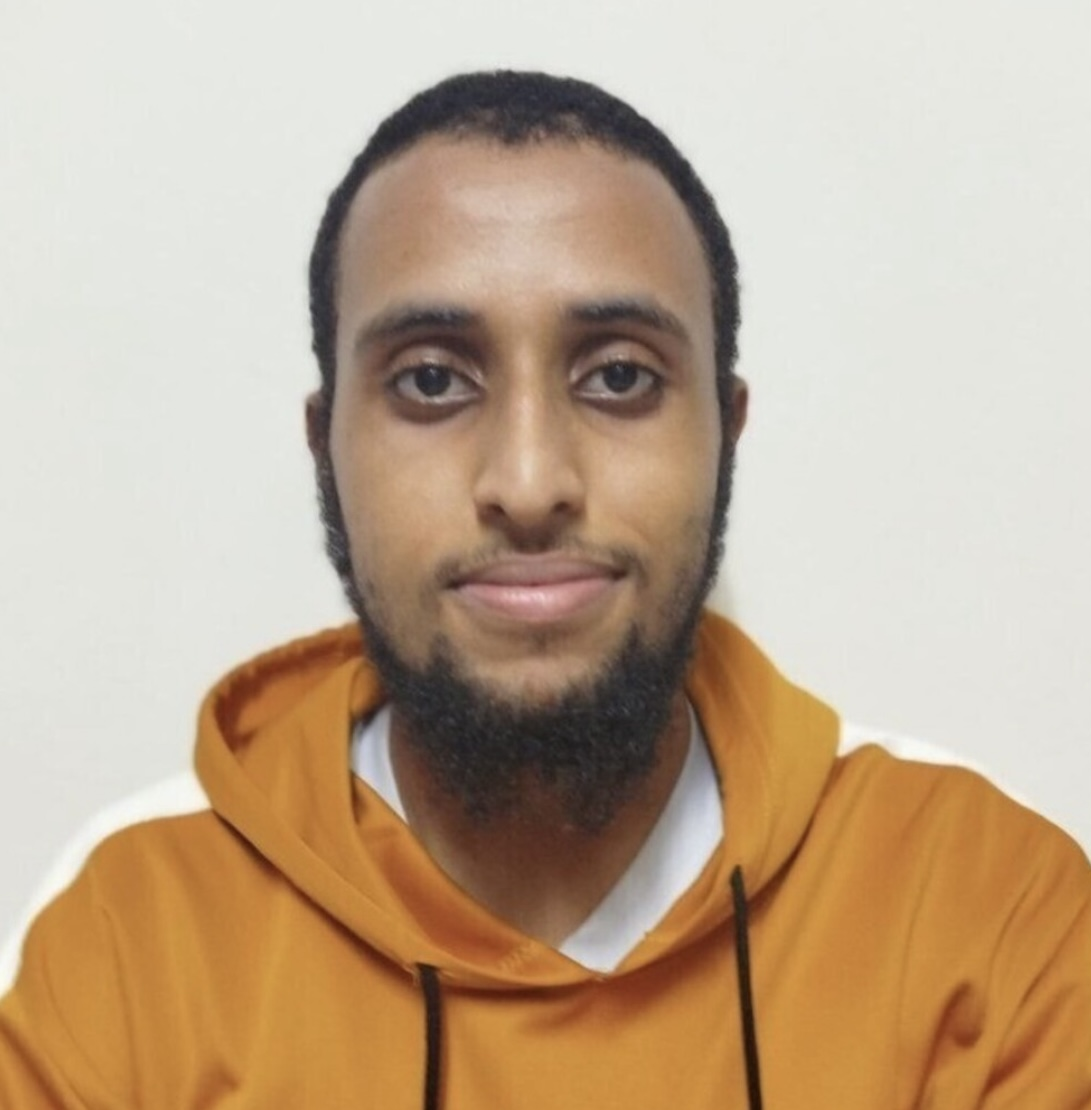
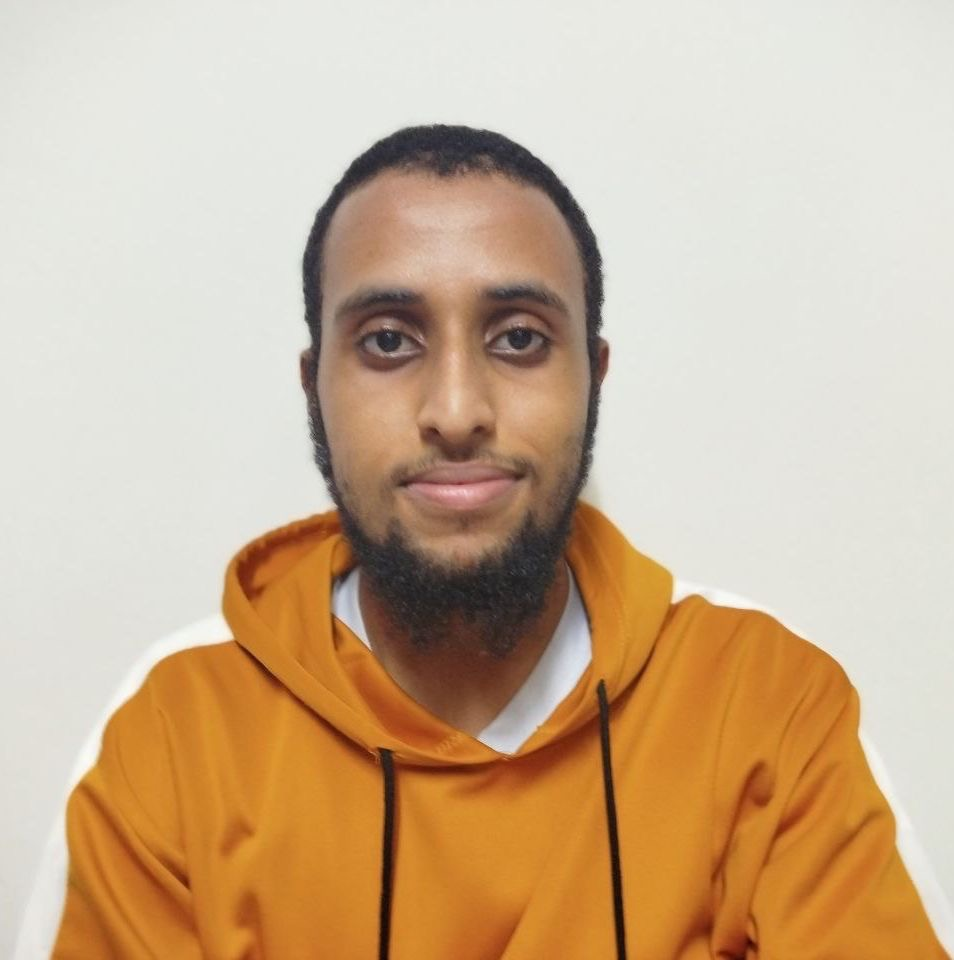
Update about page

diff --git a/src/components/AboutPage.tsx b/src/components/AboutPage.tsx
@@ -5,13 +5,13 @@ import { Link } from 'react-router-dom';
 import { Linkedin } from 'lucide-react';
 import aboutDayOfClimate from '../assets/about_dayofclimate.jpeg';
 import aboutSystemsLab from '../assets/about_systemslab.jpeg';
-import tibyanPhoto from '../assets/team_photos/tibyan.jpg';
-import yevheniaPhoto from '../assets/team_photos/yevhenia.jpg';
-import karimPhoto from '../assets/team_photos/karim.jpg';
+import tibyanPhoto from '../assets/team_photos/tibyan.png';
+import yevheniaPhoto from '../assets/team_photos/yevhenia.png';
+import karimPhoto from '../assets/team_photos/karim.JPG';
 import lanaCookPhoto from '../assets/team_photos/2025Lanacook.jpeg';
 import peterSengePhoto from '../assets/team_photos/Peter_Senge_2022-square.webp';
 import jonasJebrilPhoto from '../assets/team_photos/Jonas_Jebril_2022-1024x1015-square-fbe1b6fff45e771ef3c854b654383771-.webp';
-import fiorellaPhoto from '../assets/team_photos/Fio.png';
+import fiorellaPhoto from '../assets/team_photos/FiorellaMassa.jpeg';
 
 function TeamMemberCard({ photo, name, role, bio, linkedinLink, compact = false }: { photo?: string, name: string, role: string, bio: string, linkedinLink: string, compact?: boolean }) {
   const [isFlipped, setIsFlipped] = useState(false);
@@ -25,7 +25,7 @@ function TeamMemberCard({ photo, name, role, bio, linkedinLink, compact = false 
 
   return (
     <div 
-      className={`flex-1 cursor-pointer ${compact ? 'min-w-0 h-[200px] sm:h-[230px]' : ''}`}
+      className={`flex-1 basis-0 cursor-pointer ${compact ? 'min-w-0 h-[200px] sm:h-[230px]' : ''}`}
       style={{ perspective: '1000px' }}
       onMouseEnter={() => setIsFlipped(true)}
       onMouseLeave={() => setIsFlipped(false)}
@@ -42,17 +42,19 @@ function TeamMemberCard({ photo, name, role, bio, linkedinLink, compact = false 
           className={`bg-gray-50 dark:bg-gray-700 rounded-lg shadow-md text-center flex flex-col w-full h-full ${compact ? 'p-2' : 'p-3'}`}
           style={{ backfaceVisibility: 'hidden', WebkitBackfaceVisibility: 'hidden' }}
         >
-          {photo ? (
-            <img 
-              src={photo} 
-              alt={name} 
-              className={`w-full aspect-square rounded-lg object-cover shadow-sm ${compact ? 'mb-2' : 'mb-3'}`}
-            />
-          ) : (
-            <div className={`w-full aspect-square rounded-lg bg-gray-200 dark:bg-gray-600 shadow-sm flex items-center justify-center ${compact ? 'mb-2' : 'mb-3'}`}>
-              <span className={`${compact ? 'text-2xl' : 'text-3xl'} font-bold text-gray-600 dark:text-gray-200`}>{initials}</span>
-            </div>
-          )}
+          <div className={`w-full rounded-lg overflow-hidden shadow-sm ${compact ? 'h-[140px] sm:h-[150px] mb-2' : 'aspect-square mb-3'}`}>
+            {photo ? (
+              <img 
+                src={photo} 
+                alt={name} 
+                className="w-full h-full object-cover"
+              />
+            ) : (
+              <div className="w-full h-full bg-gray-200 dark:bg-gray-600 flex items-center justify-center">
+                <span className={`${compact ? 'text-2xl' : 'text-3xl'} font-bold text-gray-600 dark:text-gray-200`}>{initials}</span>
+              </div>
+            )}
+          </div>
           <h3 className={`${compact ? 'text-[10px] sm:text-[11px]' : 'text-base sm:text-lg'} font-bold text-gray-800 dark:text-gray-100`}>{name}</h3>
         </div>
 
@@ -134,7 +136,7 @@ export function AboutPage() {
           <div className="h-6 sm:h-24 w-full block"></div>
 
             <p className="text-gray-800 dark:text-gray-200 text-base sm:text-lg leading-relaxed mb-4">
-             This curriculum also supports young people to learn about climate policies using Climate Interactive’s En-ROADS climate policy simulator. En‑ROADS is a global climate simulator that lets you test how different climate solutions—like electrifying transportation, putting a price on carbon, or changing farming practices—affect things like temperature, air quality, sea level rise, and energy costs. In this combination of compassionate systems and En-ROADS, students learn about the inner and outer systems dynamics that underlie climate change, its drivers, and effects–from global energy policies, consumer behavior, to our sense of agency and hope in contributing to a more positive future.          
+             This curriculum also supports young people to learn about climate policies using <a href="https://www.climateinteractive.org" target="_blank" rel="noopener noreferrer" className="text-blue-600 dark:text-blue-400 underline">Climate Interactive</a>’s En-ROADS climate policy simulator. En‑ROADS is a global climate simulator that lets you test how different climate solutions—like electrifying transportation, putting a price on carbon, or changing farming practices—affect things like temperature, air quality, sea level rise, and energy costs. In this combination of compassionate systems and En-ROADS, students learn about the inner and outer systems dynamics that underlie climate change, its drivers, and effects–from global energy policies, consumer behavior, to our sense of agency and hope in contributing to a more positive future.          
              </p>
 
           {/* SPACER */}
@@ -150,7 +152,7 @@ export function AboutPage() {
           {/* About Day of Climate Section */}
           <div>
             <h2 className="text-xl sm:text-2xl md:text-3xl font-bold text-green-600 mb-3">
-              About Day of Climate
+              Day of Climate
             </h2>
             <img 
               src={aboutDayOfClimate} 
@@ -189,7 +191,7 @@ export function AboutPage() {
           {/* About Systems Awareness Lab Section */}
           <div>
             <h2 className="text-xl sm:text-2xl md:text-3xl font-bold text-green-600 mb-3">
-              About MIT Systems Awareness Lab
+              MIT Systems Awareness Lab
             </h2>
             <img 
               src={aboutSystemsLab} 
@@ -249,7 +251,7 @@ export function AboutPage() {
           {/* About Climate Interactive Section */}
           <div>
             <h2 className="text-xl sm:text-2xl md:text-3xl font-bold text-green-600 mb-3">
-              About Climate Interactive
+              Climate Interactive
             </h2>
             <p className="text-gray-800 dark:text-gray-200 text-base sm:text-lg leading-relaxed">
               At Climate Interactive, their mission is to create and share tools that drive effective and equitable action. Developed by Climate Interactive, MIT Sloan School of Management, and Ventana Systems, the En-ROADS Climate Solutions Simulator is based on best-available science and carefully compared with other major climate and energy models. En‑ROADS is free to use online and is available in more than a dozen languages, making it accessible to people all over the world.
@@ -268,7 +270,7 @@ export function AboutPage() {
                   Visit Climate Interactive →
                 </Button>
               </a>
-              to learn more about their climate Simulators, Experiences, Insights and Research, and how to become an En-ROADS Climate Ambassador through their facilitator training.
+              to learn more about their climate simulators, experiences, insights and research, and how to become an En-ROADS Climate Ambassador through their facilitator training.
             </p>
           </div>
 
@@ -278,7 +280,7 @@ export function AboutPage() {
           {/* About the Center for Systems Awareness Section */}
           <div>
             <h2 className="text-xl sm:text-2xl md:text-3xl font-bold text-green-600 mb-3">
-              About the Center for Systems Awareness: Youth Leadership Team
+              Center for Systems Awareness
             </h2>
             <p className="text-gray-800 dark:text-gray-200 text-base sm:text-lg leading-relaxed mb-4">
               The vision of the <a href="https://systemsawareness.org/youth-leadership-team/" target="_blank" rel="noopener noreferrer" className="text-blue-600 dark:text-blue-400 hover:underline">Center for Systems Awareness Youth Leadership Team</a> is to increase the capacity for compassion, systems awareness, and self-mastery by training students worldwide and to develop compassionate leaders of the future.
@@ -319,22 +321,22 @@ export function AboutPage() {
                   photo={lanaCookPhoto}
                   name="Dr. Lana Cook"
                   role="Project Lead"
-                  bio="Associate Director, MIT Systems Awareness Lab"
-                  linkedinLink="#"
+                  bio="Associate Director | MIT Systems Awareness Lab"
+                  linkedinLink="https://www.linkedin.com/in/lanacook/"
                 />
                 <TeamMemberCard
                   photo={peterSengePhoto}
                   name="Dr. Peter Senge"
                   role="Project Advisor"
                   bio="Co-Director, MIT Systems Awareness Lab | Senior Lecturer, MIT Sloan"
-                  linkedinLink="#"
+                  linkedinLink="https://mitsloan.mit.edu/faculty/directory/peter-m-senge"
                 />
                 <TeamMemberCard
                   photo={jonasJebrilPhoto}
                   name="Jonas Jebril"
                   role="Curriculum Design"
-                  bio="Youth Leadership, Center for Systems Awareness"
-                  linkedinLink="#"
+                  bio="Youth Leadership | Center for Systems Awareness"
+                  linkedinLink="https://systemsawareness.org/person/jonas-jebril/"
                 />
               </div>
 
@@ -343,7 +345,7 @@ export function AboutPage() {
                   photo={tibyanPhoto} 
                   name="Tibyan Bilal" 
                   role="Web Developer" 
-                  bio="Mathematical Engineering Student at YTÜ | MIT Emerging Talent Alum 25’ | Web Dev | NLP " 
+                  bio="Mathematical Engineering Student | YTÜ" 
                   linkedinLink="https://www.linkedin.com/in/tibyankhalid/"
                   compact
                 />
@@ -351,7 +353,7 @@ export function AboutPage() {
                   photo={yevheniaPhoto} 
                   name="Yevheniia Rudenko" 
                   role="Web Developer" 
-                  bio="MIT Emerging Talent 2024/25 Data Science learner | ReDI School (Machine Learning & AI) | MSc in Computer Science" 
+                  bio="Full Stack Developer | MIT Systems Awareness Lab" 
                   linkedinLink="https://www.linkedin.com/in/yevheniia-rudenko/"
                   compact
                 />
@@ -359,7 +361,7 @@ export function AboutPage() {
                   photo={karimPhoto} 
                   name="Karim Makie" 
                   role="Web Developer" 
-                  bio="[Full Stack Developer @ MIT System Awareness Lab | Flutter Developer | Data Analyst" 
+                  bio="Full Stack Developer | MIT Systems Awareness Lab" 
                   linkedinLink="https://www.linkedin.com/in/karim-makie/"
                   compact
                 />
@@ -368,7 +370,7 @@ export function AboutPage() {
                   name="Fiorella Massa"
                   role="Graphic Designer"
                   bio="Graphic Designer"
-                  linkedinLink="#"
+                  linkedinLink="https://www.behance.net/fiorellamassa"
                   compact
                 />
               </div>
